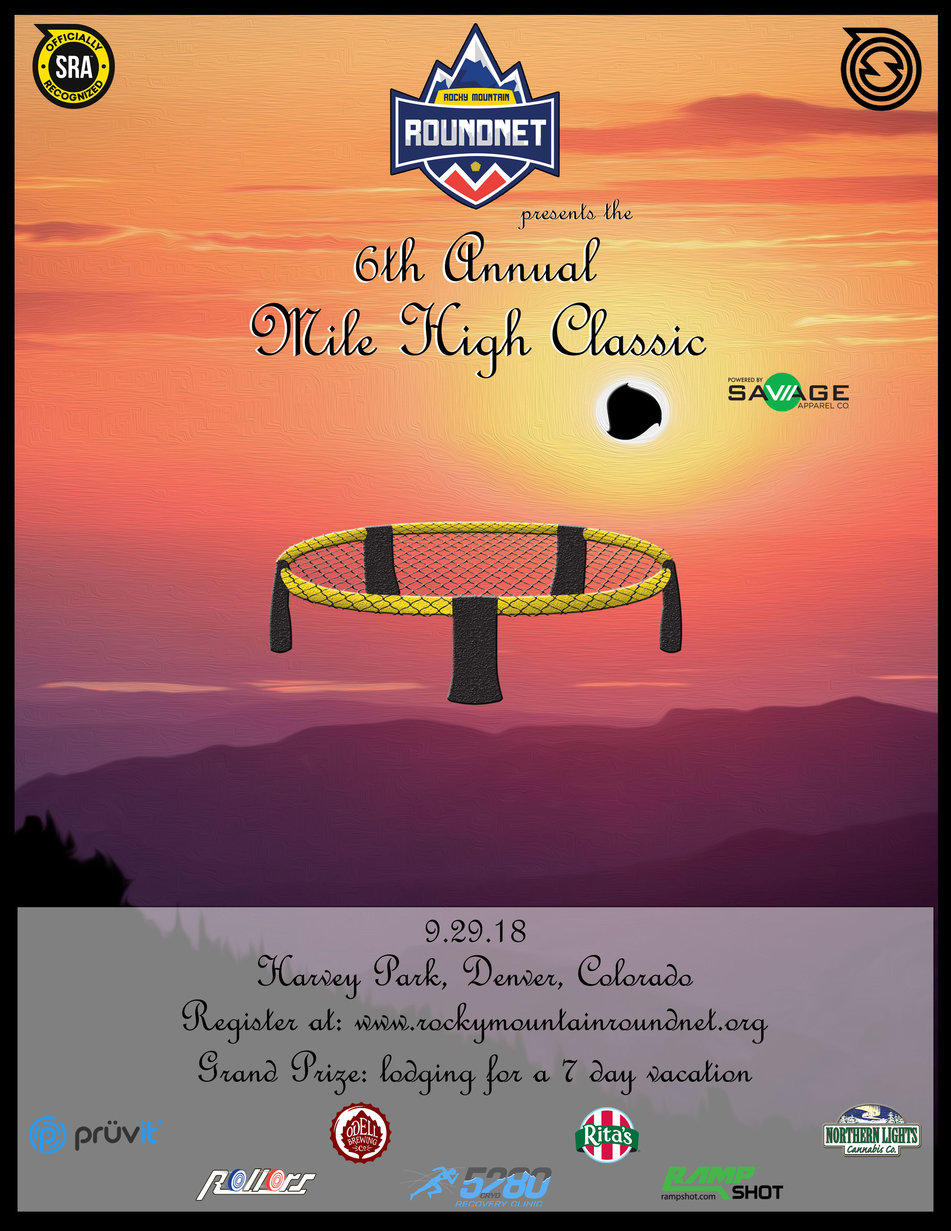
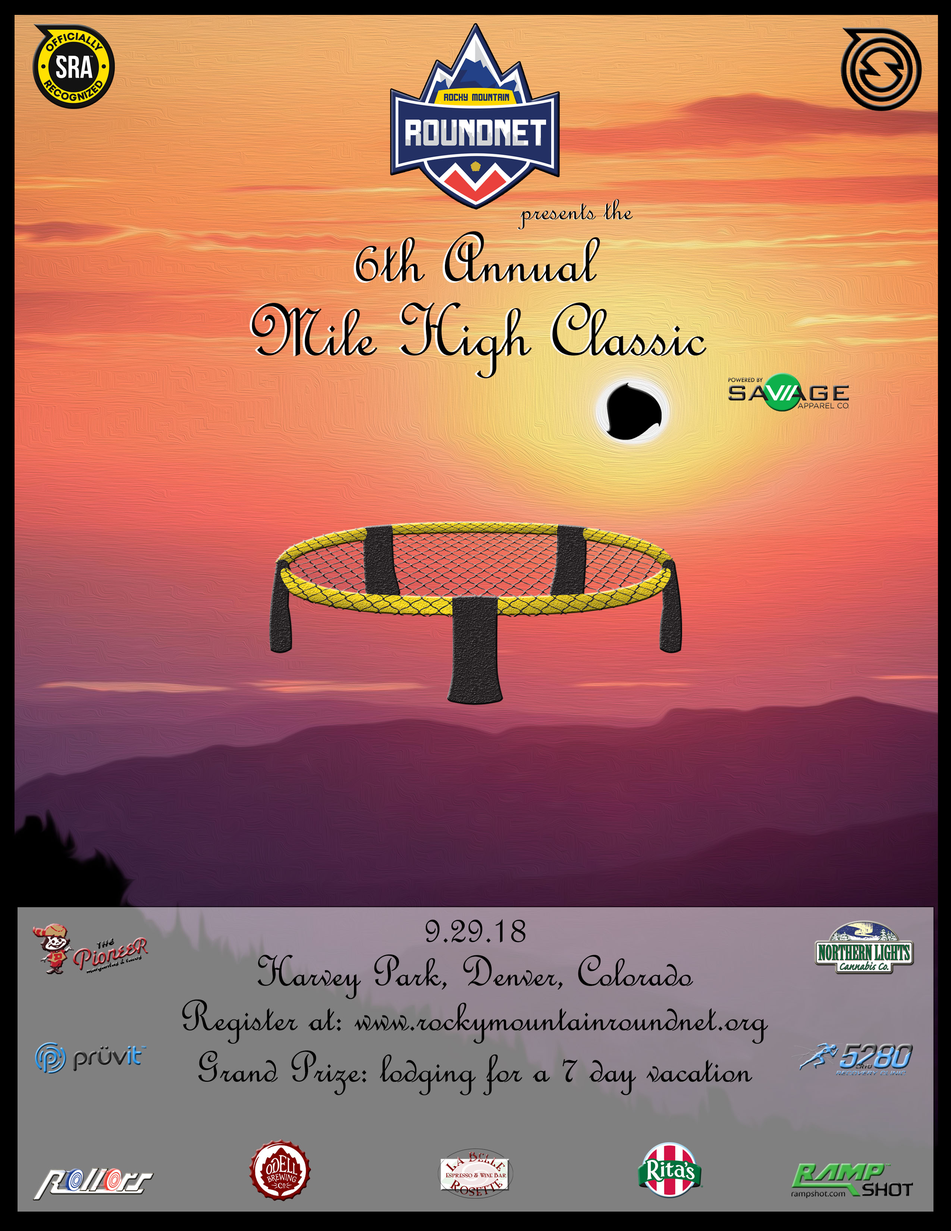
- updated MHC flyer - new sponsors and images

diff --git a/index.html b/index.html
@@ -202,6 +202,8 @@
         <img class="footer-sponsors-pruvit-img" src="images/sponsor/Sponsor_Odell.png">
         <img class="footer-sponsors-pruvit-img" src="images/sponsor/Sponsor_Rollors.jpg">
         <img class="footer-sponsors-pruvit-img" src="images/sponsor/Sponsor_Cryo.jpg">
+        <img class="footer-sponsors-pruvit-img" src="images/sponsor/Sponsor_Pioneer.jpg">
+        <img class="footer-sponsors-pruvit-img" src="images/sponsor/Sponsor_LBR_Wine.png">
     </div>
 </footer>
 </body>

diff --git a/sponsors.html b/sponsors.html
@@ -76,6 +76,10 @@
 <br>
 <a href=""><img class="sponsors-pruvit-img" src="images/sponsor/Sponsor_Cryo.jpg"></a>
 <br>
+<a href=""><img class="sponsors-pruvit-img" src="images/sponsor/Sponsor_Pioneer.jpg"></a>
+<br>
+<a href=""><img class="sponsors-pruvit-img" src="images/sponsor/Sponsor_LBR_Wine.png"></a>
+<br>
 <a href="https://spikeball.com"><img class="sponsors-pruvit-img" src="images/sponsor/SRA_Officially_Recognized.jpg"></a>
 
 <!--Sponsor text-->
